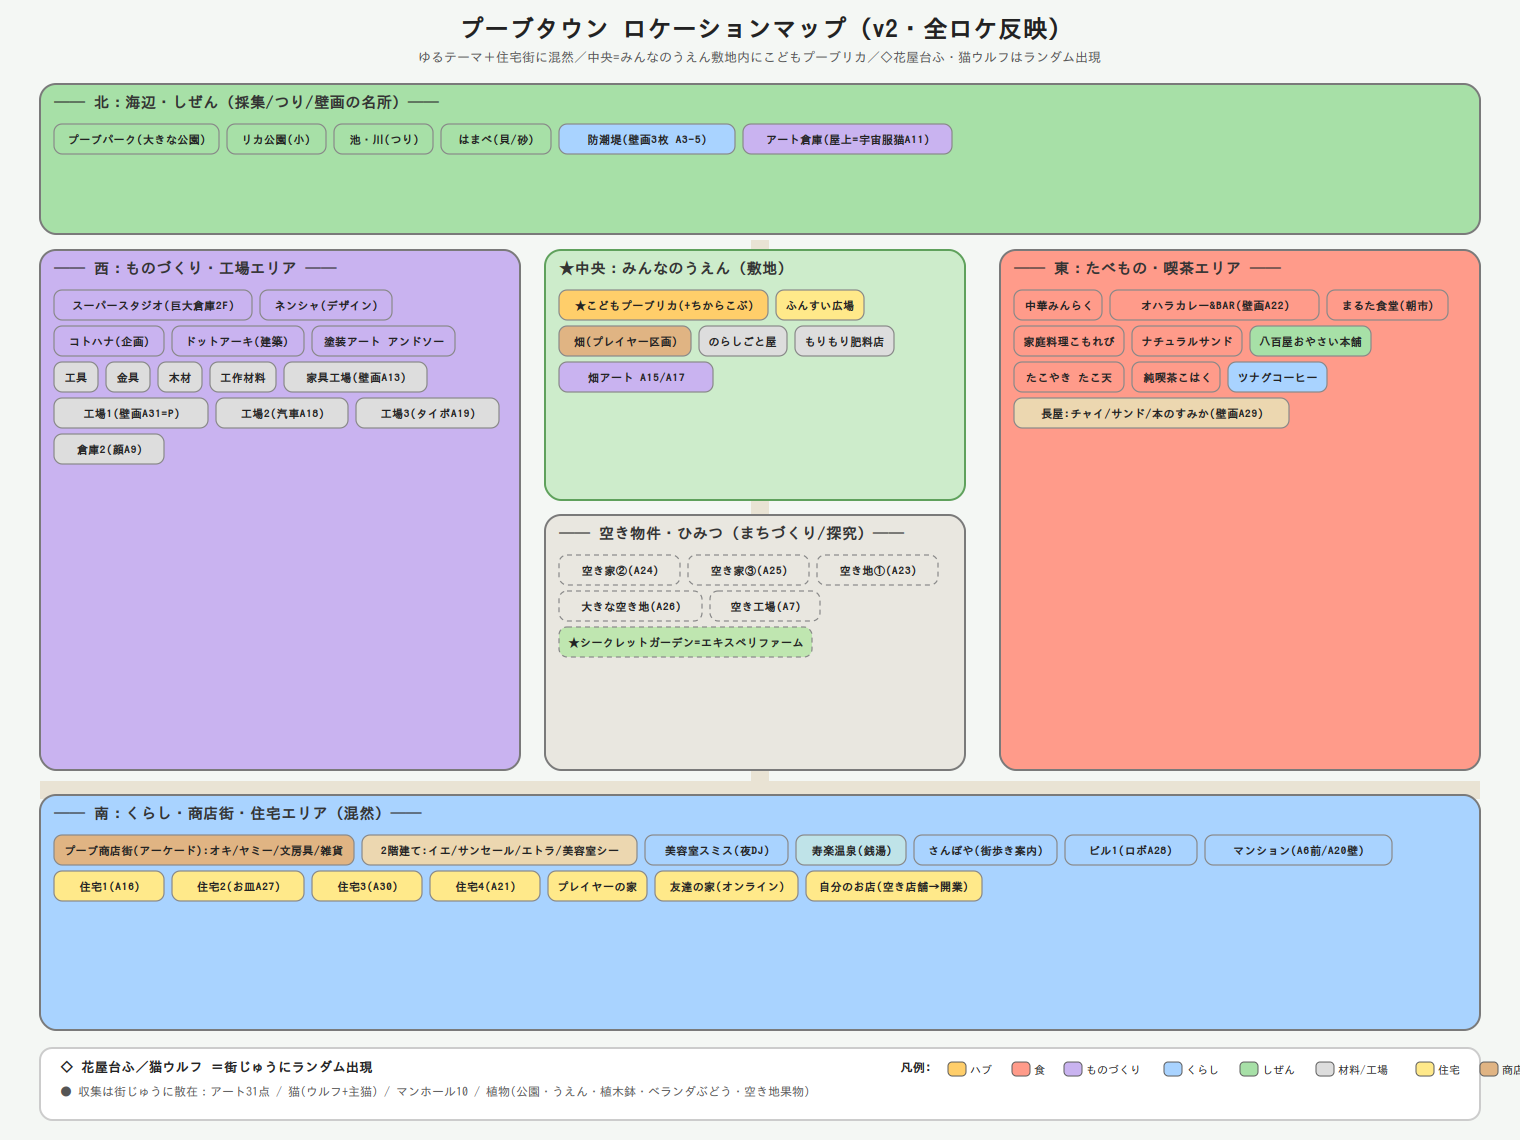
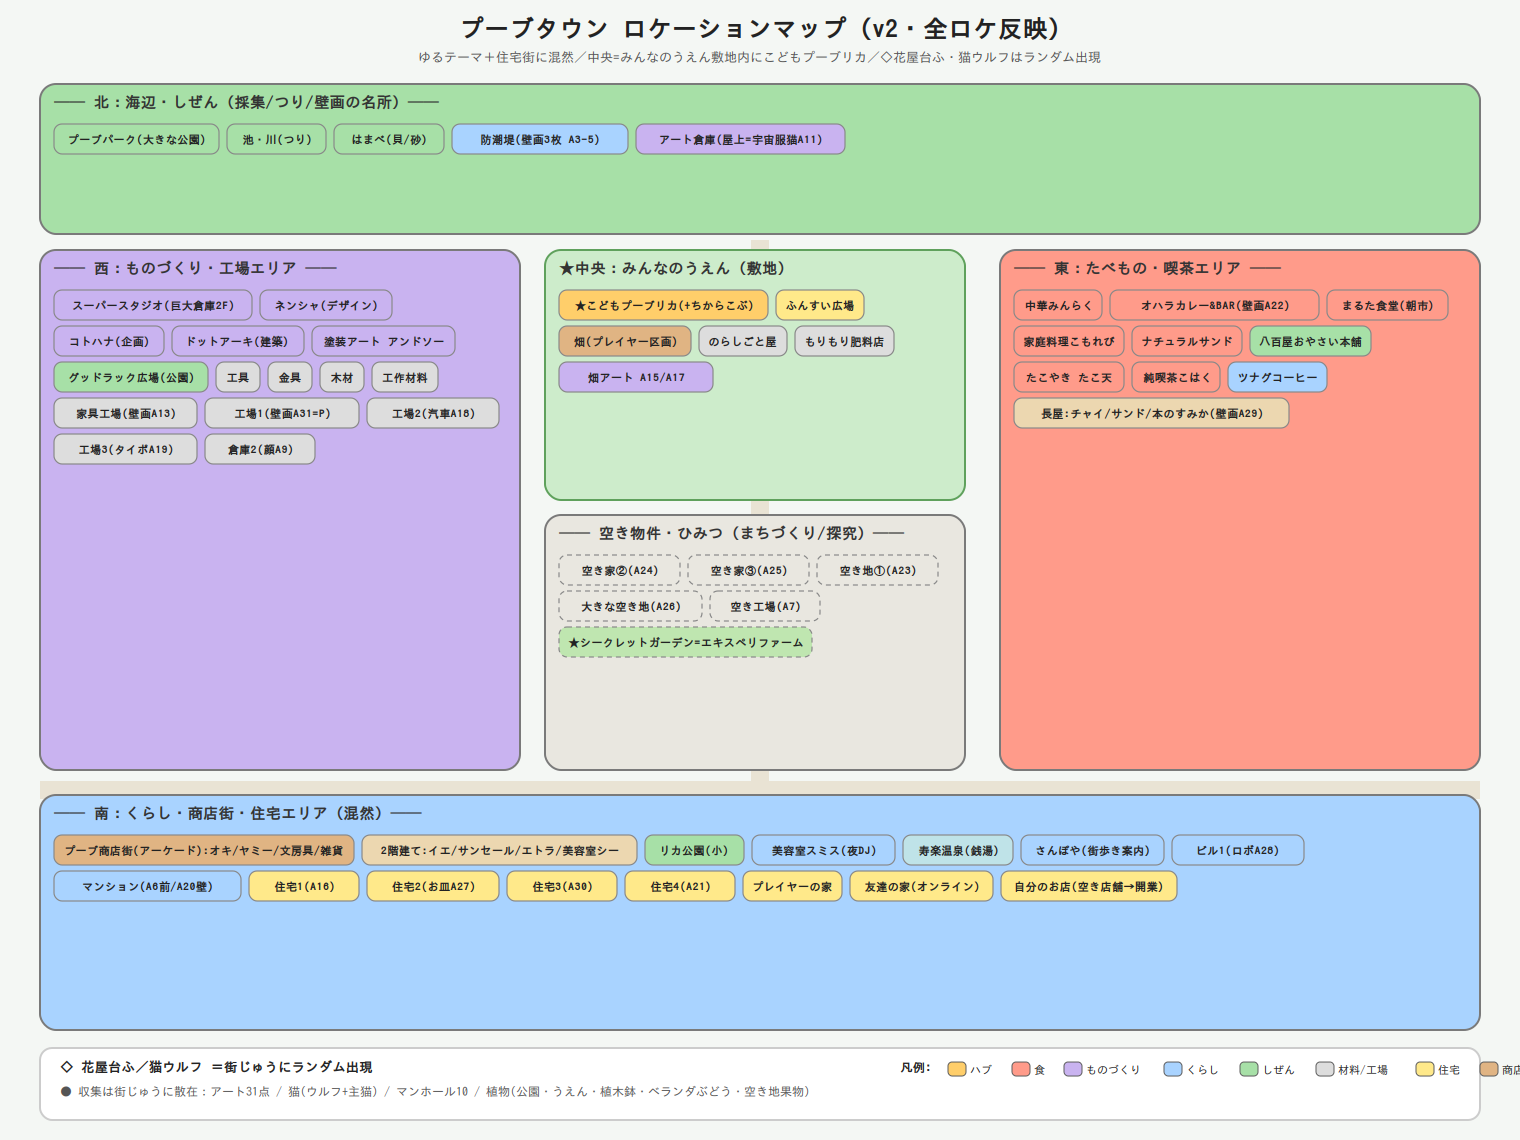
Move Rika Park to south; add Goodluck Plaza in the west
Now 3 parks: Puub Park (north), Rika Park (south pocket park), and new
Goodluck Plaza (west). Update map generator, MAP.md location list, and
town features; regenerate SVG/PNG.

https://claude.ai/code/session_01VmUZCs8i6ZW6jfSa9WcoNQ

Changed region(s): [[0.0309, 0.7061, 0.8967, 0.7982], [0.0309, 0.307, 0.3092, 0.4298], [0.2474, 0.0921, 0.6493, 0.1535]]

diff --git a/MAP.md b/MAP.md
@@ -164,8 +164,9 @@
 | farm | みんなのうえん(畑) | かね | 朝昼夕 | outdoor | 農業の拠点・プレイヤーの畑区画 |
 | nouguya | のらしごと屋 農具(架空) | くわぞう | 朝昼 | panel | くわ/じょうろ/支柱 |
 | hiryo | もりもり肥料店(架空) | もり | 朝昼 | panel | 土/肥料(収穫UP) |
-| puub_park | プーブパーク（大きな公園） | ― | 終日 | outdoor | 採集・ベンチ休憩・大きなイベント会場 |
-| rika_park | リカ公園（小さな公園） | ― | 終日 | outdoor | 住宅街のポケットパーク・休憩・小イベント |
+| puub_park | プーブパーク（大きな公園） | ― | 終日 | outdoor | 採集・ベンチ休憩・大きなイベント会場（北） |
+| rika_park | リカ公園（小さな公園） | ― | 終日 | outdoor | 住宅街のポケットパーク（南）・休憩・小イベント |
+| goodluck_plaza | グッドラック広場（公園） | ― | 終日 | outdoor | 西エリアの広場・休憩・集合/イベント |
 | pond | 池/川 | (うみのおじさん枠は要検討) | 終日 | outdoor | つり |
 | beach | はまべ | ― | 終日 | outdoor | 貝/すな採集（たんけん家スキルで解放） |
 

diff --git a/TOWN.md b/TOWN.md
@@ -38,7 +38,7 @@
   - なでる＝きぶん回復、好物で仲良し、ねこ図鑑・猫クエストに（詳細は`MAP.md`§2-2）
 - 🕳 **ぷーぶ君マンホール（10種）**：街じゅうに散らばる収集要素。見つけて集める→マンホール図鑑＆称号（詳細は`MAP.md`§2-2）
 - 🌿 **植物がいっぱい**：公園・うえん・街中の草花、住宅前の植木鉢、ベランダのぶどう、空き地の果物…→植物図鑑（観察・収穫）（詳細は`MAP.md`§2-2）
-- 🏞 **公園が2つ**：**プーブパーク**（大きな公園・採集/イベント）と **リカ公園**（小さなポケットパーク）
+- 🏞 **公園が3つ**：**プーブパーク**（大・北/採集・イベント）／**リカ公園**（小・南のポケットパーク）／**グッドラック広場**（西の広場）
 - 🏚 **空き家・空き工場・空き地が点在**：将来のまちづくり・改修・イベントの種
 - ✨ **シークレットガーデン**（空き地の1つ・**ステータス：謎**）：見つける/開く条件は秘密の隠し要素
 